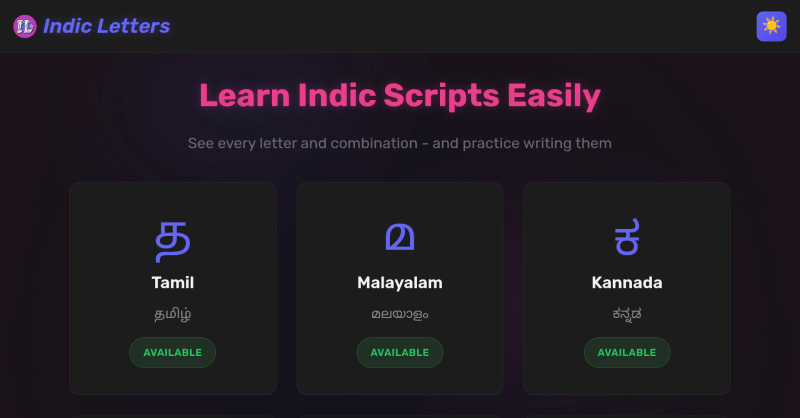
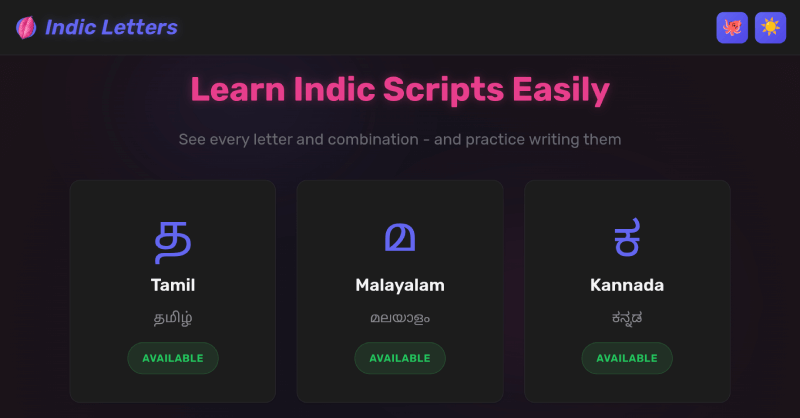
update preview image

diff --git a/service-worker.js b/service-worker.js
@@ -1,4 +1,4 @@
-const CACHE_NAME = "indic-letters-cache-v2.3";
+const CACHE_NAME = "indic-letters-cache-v2.4";
 
 self.addEventListener("install", (event) => {
   event.waitUntil(
